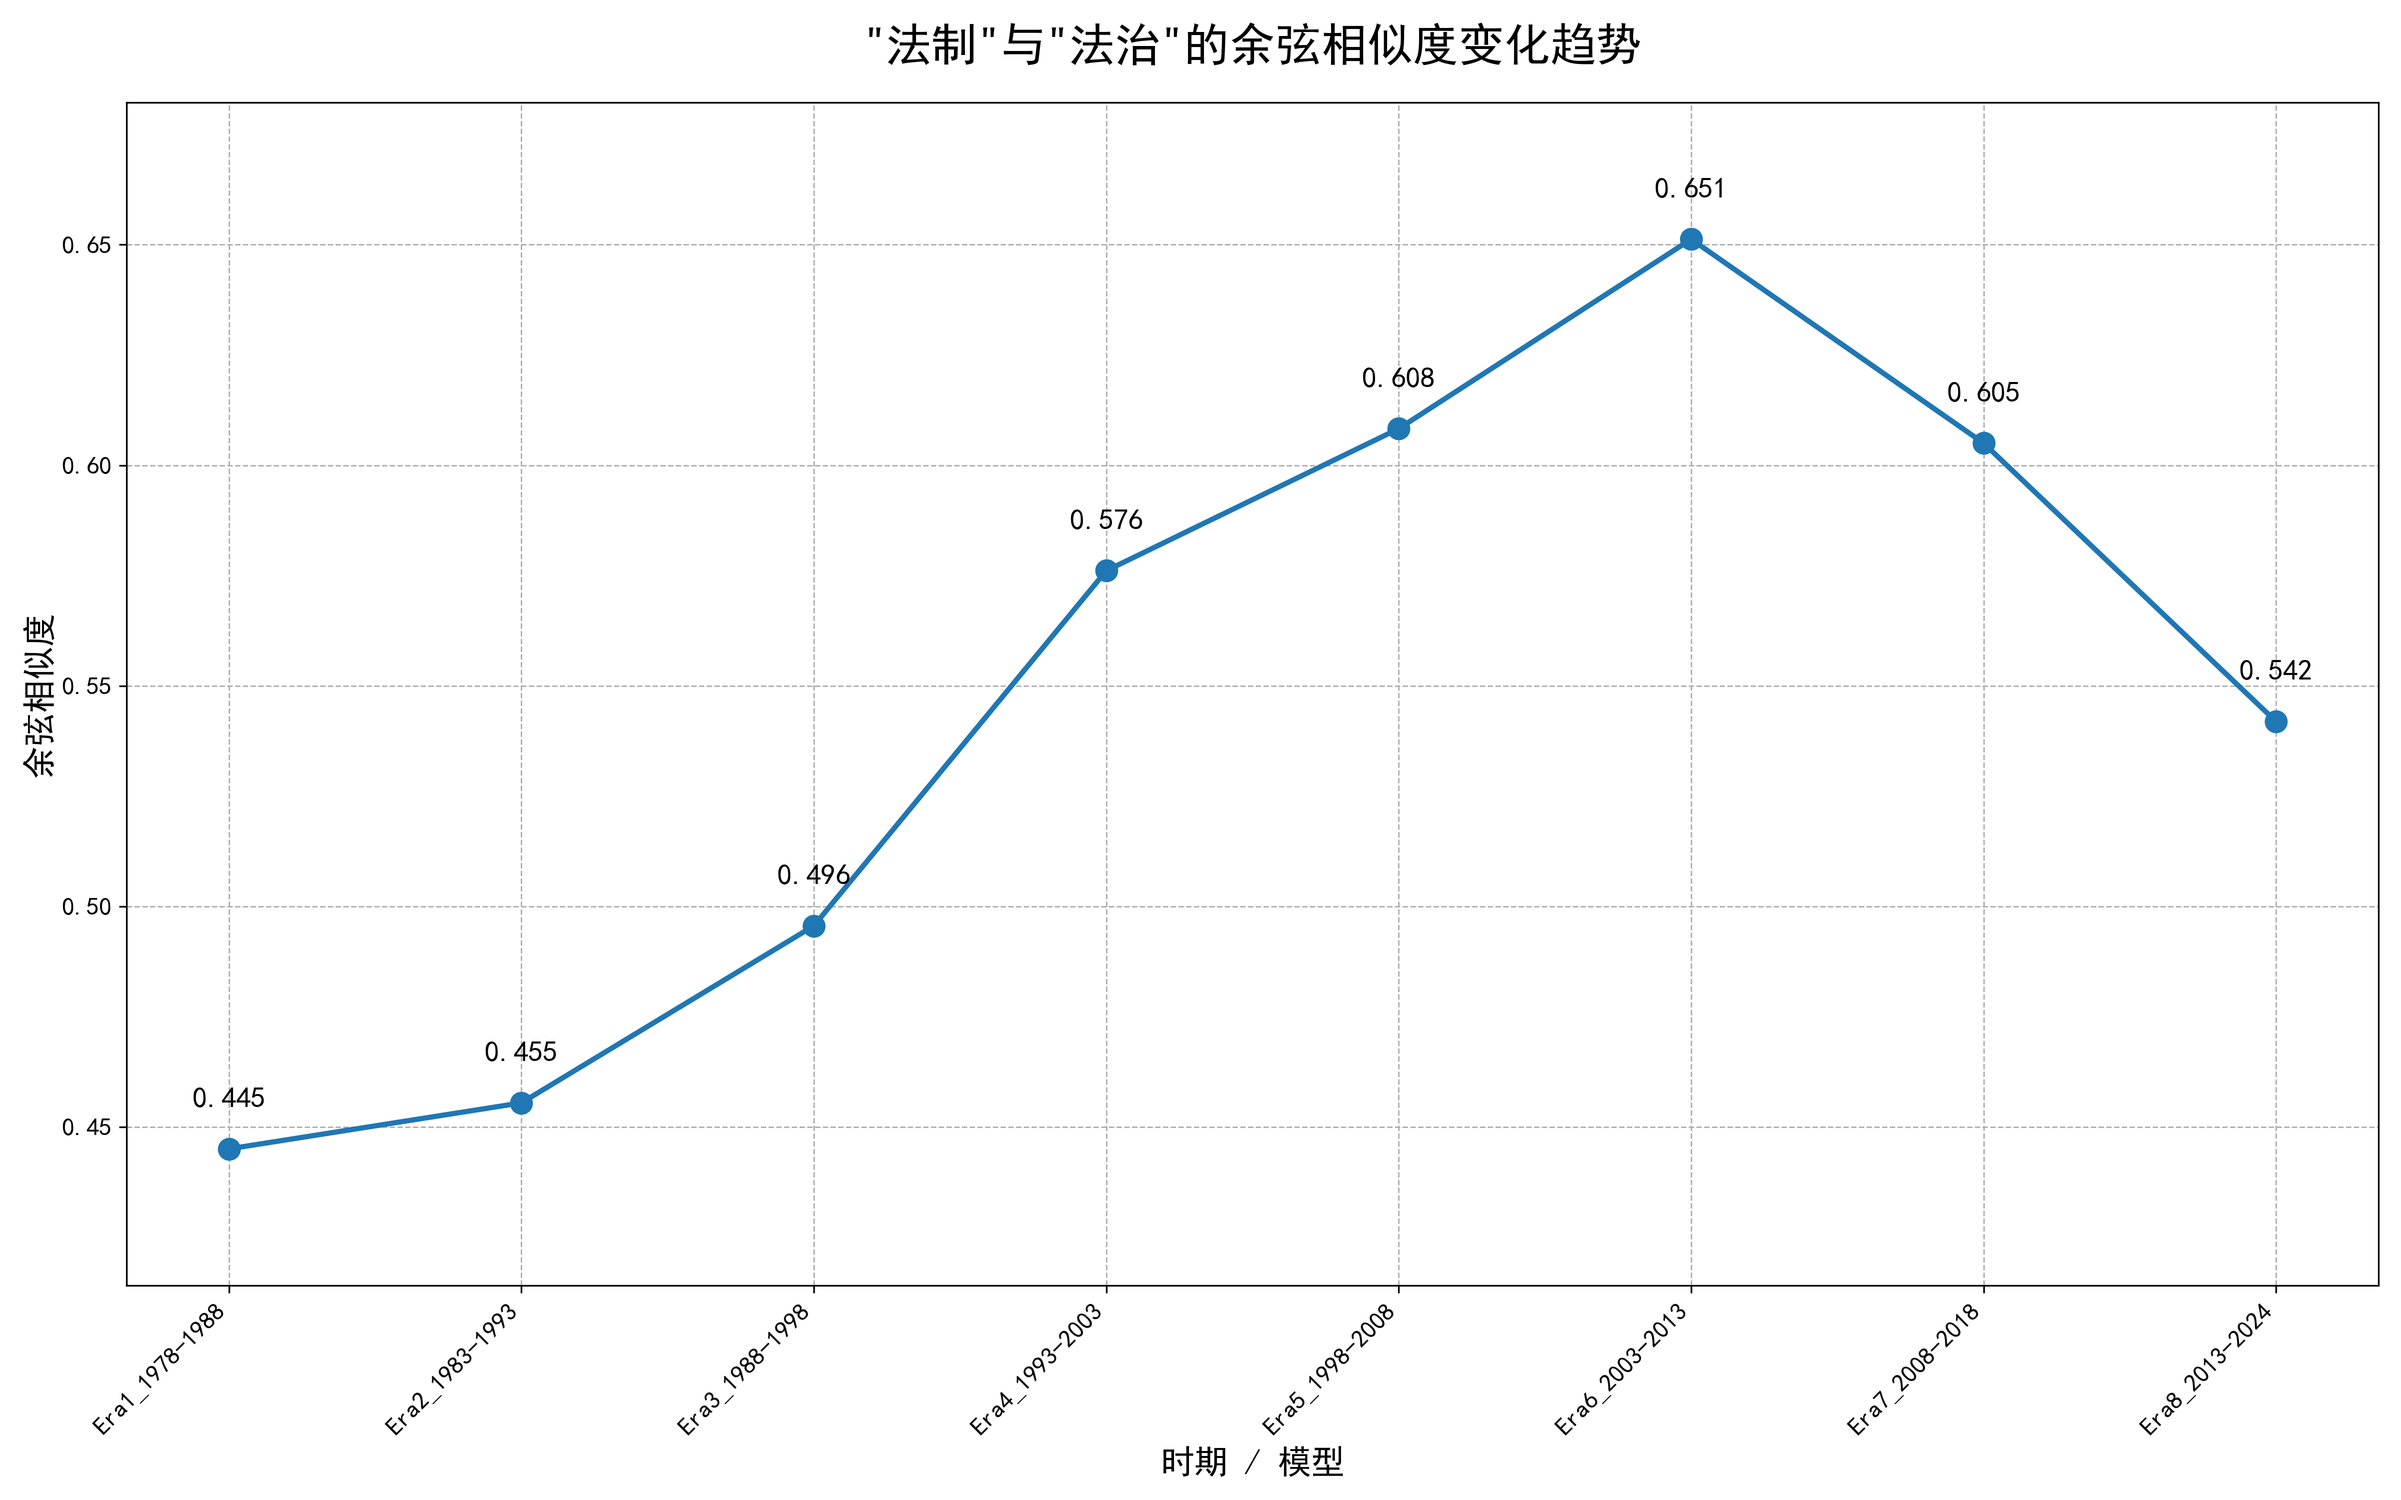
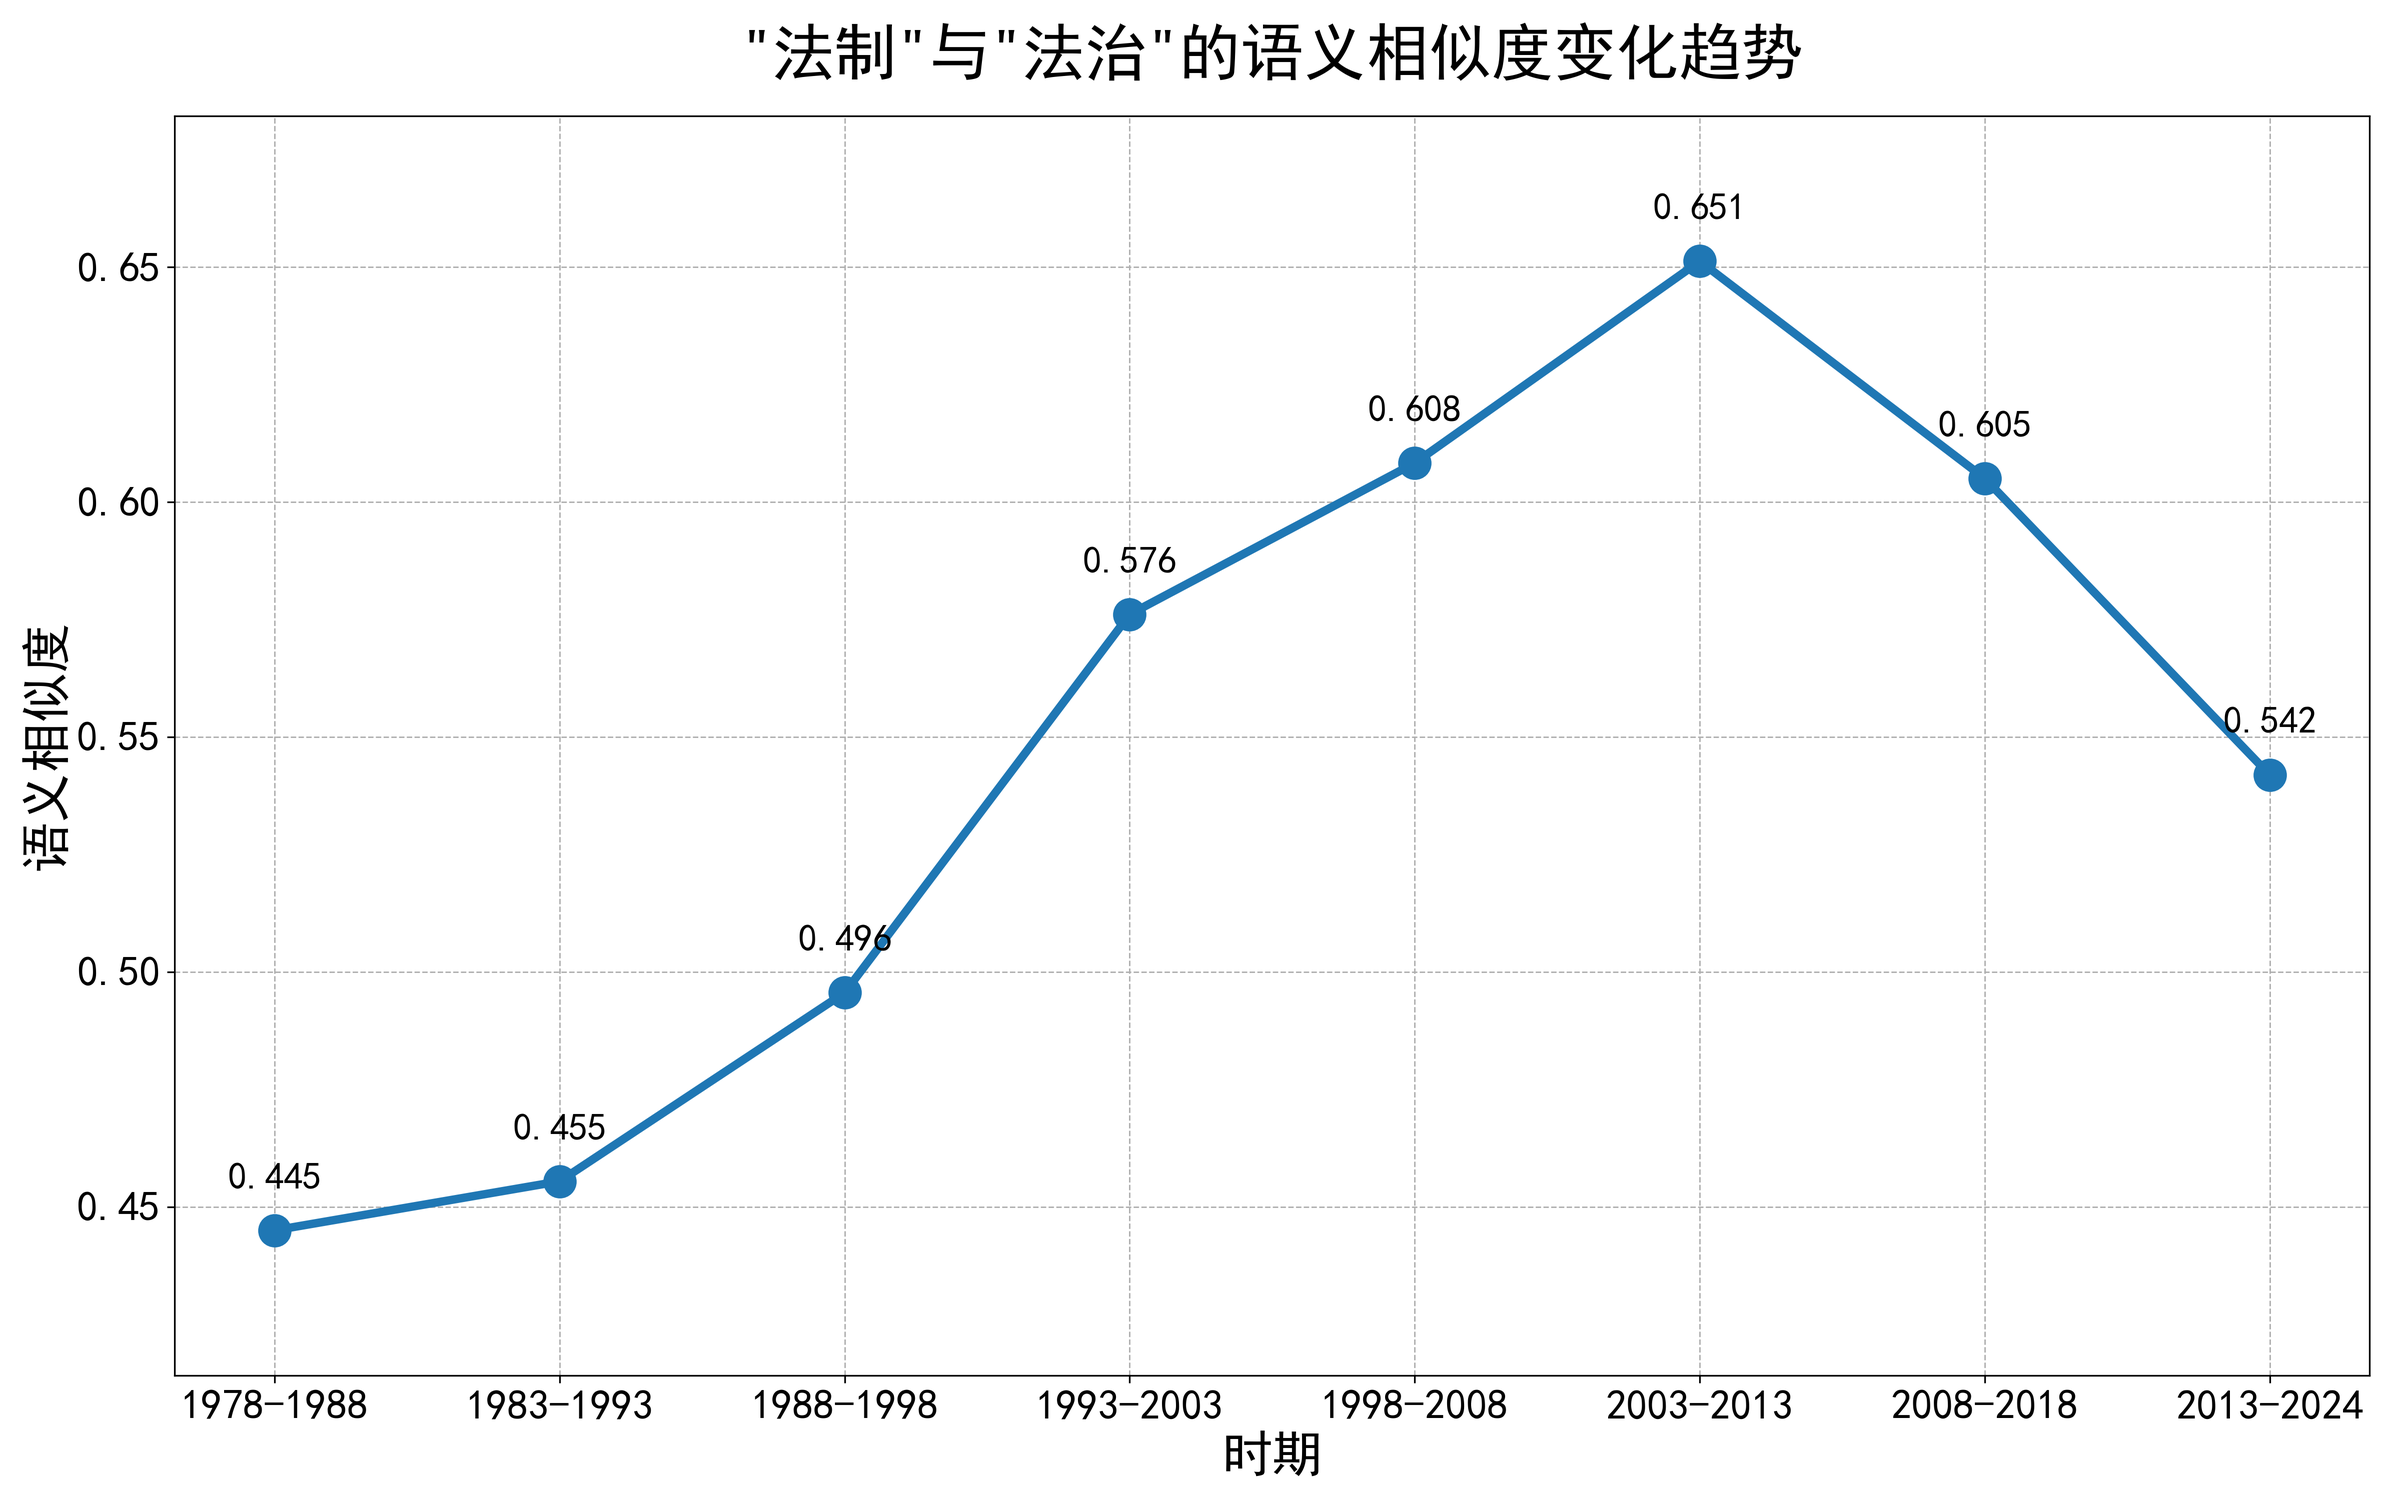
update

diff --git a/src/rule_by-of_law_analysis/rule_by_of_law_freq_replot.py b/src/rule_by-of_law_analysis/rule_by_of_law_freq_replot.py
@@ -114,24 +114,24 @@ def replot_trends_from_csv(csv_file: Path, output_dir: Path, plot_moving_average
         plt.plot(fazhi_ma.index, fazhi_ma, color='#ff7f0e', linestyle='--', linewidth=3, label=f'法治 ({window_length}年滑动平均)')
         
         # 为滑动平均曲线添加数据点
-        for year, val in fazi_ma.items():
-            plt.annotate(f'{val:.1f}', (year, val),
-                       textcoords="offset points", xytext=(0,10), ha='center', fontsize=10, fontweight='bold', color='#1f77b4')
-        for year, val in fazhi_ma.items():
-            plt.annotate(f'{val:.1f}', (year, val),
-                       textcoords="offset points", xytext=(0,10), ha='center', fontsize=10, fontweight='bold', color='#ff7f0e')
+        # for year, val in fazi_ma.items():
+        #     plt.annotate(f'{val:.1f}', (year, val),
+        #                textcoords="offset points", xytext=(0,10), ha='center', fontsize=10, fontweight='bold', color='#1f77b4')
+        # for year, val in fazhi_ma.items():
+        #     plt.annotate(f'{val:.1f}', (year, val),
+        #                textcoords="offset points", xytext=(0,10), ha='center', fontsize=10, fontweight='bold', color='#ff7f0e')
 
 
     # 设置图表属性
-    plt.title('"法制"与"法治"词频年度变化趋势 (每百万词)', fontsize=20, fontweight='bold', pad=20)
+    plt.title('"法制"与"法治"词频年度变化趋势 (每百万词)', fontsize=30, fontweight='bold', pad=20)
     plt.xlabel('年份', fontsize=24)
     plt.ylabel('每百万词出现次数', fontsize=24)
-    plt.legend(fontsize=34, loc='upper left')
+    plt.legend(fontsize=30, loc='upper left')
     plt.grid(True, which='both', linestyle='--', linewidth=1.5)
 
     # 优化坐标轴
-    plt.xticks(years[::2], rotation=45, fontsize=12) # 每隔两年显示
-    plt.yticks(fontsize=12)
+    plt.xticks(years[::2], rotation=45, fontsize=20) # 每隔两年显示
+    plt.yticks(fontsize=20)
     
     # 原始数据的标签只在非滑动平均模式下显示，避免图表过于拥挤
     if not plot_moving_average:

diff --git a/src/topic_word_analysis/domain_analysis.py b/src/topic_word_analysis/domain_analysis.py
@@ -250,12 +250,15 @@ class DomainAnalyzer:
     def plot_trend(self, df, path, title):
         """Generates and saves a trend plot."""
         plt.figure(figsize=(12, 7))
+        custom_xticklabels = ["1978-1996", "1997-2013", "2014-2024"]
         for column in df.columns[1:]:
-            sns.lineplot(data=df, x='era', y=column, marker='o', label=column)
-        plt.title(title)
-        plt.ylabel("Similarity")
-        plt.xlabel("Era")
-        plt.legend(title="Topic")
+            sns.lineplot(data=df, x='era', y=column, marker='o', label=column, linewidth=4, markersize=10)
+        # plt.title(title)
+        plt.ylabel("维度得分（按时期归一化）", fontsize=22)
+        plt.xlabel("时期", fontsize=22)
+        plt.legend(fontsize=20)
+        plt.xticks(ticks=range(len(custom_xticklabels)), labels=custom_xticklabels, fontsize=20)
+        plt.yticks(fontsize=20)
         plt.tight_layout()
         plt.savefig(path / "trend_chart.png", dpi=300)
         plt.close()
@@ -377,9 +380,9 @@ if __name__ == '__main__':
             'era3': '法治'
         }
         print("\n🔄 混合模式: era1-法制, era2-[法制+法治], era3-法治")
-        # analyzer.run_analysis(mixed_keywords, use_general_union=True, normalize='same_era')
+        analyzer.run_analysis(mixed_keywords, use_general_union=True, normalize='same_era')
         # print("\n🔄 混合模式: era1-党政建设, era2-[党政建设+党建政治], era3-党建政治")
-        analyzer.run_analysis(mixed_keywords, use_general_union=True, normalize=None)
+        # analyzer.run_analysis(mixed_keywords, use_general_union=True, normalize=None)
         
         print("\n🎉 法律领域分析完成！")
 

diff --git a/src/topic_word_analysis/inner_value_analysis.py b/src/topic_word_analysis/inner_value_analysis.py
@@ -250,12 +250,15 @@ class DomainAnalyzer:
     def plot_trend(self, df, path, title):
         """Generates and saves a trend plot."""
         plt.figure(figsize=(12, 7))
+        custom_xticklabels = ["1978-1996", "1997-2013", "2014-2024"]
         for column in df.columns[1:]:
-            sns.lineplot(data=df, x='era', y=column, marker='o', label=column)
-        plt.title(title)
-        plt.ylabel("Similarity")
-        plt.xlabel("Era")
-        plt.legend(title="Topic")
+            sns.lineplot(data=df, x='era', y=column, marker='o', label=column, linewidth=4, markersize=10)
+        # plt.title(title)
+        plt.ylabel("维度得分（按时期归一化）", fontsize=22)
+        plt.xlabel("时期", fontsize=22)
+        plt.legend(fontsize=20)
+        plt.xticks(ticks=range(len(custom_xticklabels)), labels=custom_xticklabels, fontsize=20)
+        plt.yticks(fontsize=20)
         plt.tight_layout()
         plt.savefig(path / "trend_chart.png", dpi=300)
         plt.close()
@@ -377,9 +380,9 @@ if __name__ == '__main__':
             'era3': '法治'
         }
         print("\n🔄 混合模式: era1-法制, era2-[法制+法治], era3-法治")
-        # analyzer.run_analysis(mixed_keywords, use_general_union=True, normalize='same_era')
+        analyzer.run_analysis(mixed_keywords, use_general_union=True, normalize='same_era')
         # print("\n🔄 混合模式: era1-党政建设, era2-[党政建设+党建政治], era3-党建政治")
-        analyzer.run_analysis(mixed_keywords, use_general_union=True, normalize=None)
+        # analyzer.run_analysis(mixed_keywords, use_general_union=True, normalize=None)
         
         print("\n🎉 法律领域分析完成！")
 

diff --git a/src/rule_by-of_law_analysis/rule_by_of_law_similarity_analyzer.py b/src/rule_by-of_law_analysis/rule_by_of_law_similarity_analyzer.py
@@ -88,8 +88,10 @@ def plot_similarity_trends(df: pd.DataFrame, word1: str, word2: str, output_dir:
         return
 
     plt.figure(figsize=(16, 10))
+    custom_x = [item.split('_')[1] for item in df['period']]
+    df['period'] = custom_x
     
-    plt.plot(df['period'], df['similarity'], marker='o', linestyle='-', markersize=10, linewidth=2.5)
+    plt.plot(custom_x, df['similarity'], marker='o', linestyle='-', markersize=15, linewidth=4)
     
     # 为每个数据点添加标签
     for i, row in df.iterrows():
@@ -99,14 +101,16 @@ def plot_similarity_trends(df: pd.DataFrame, word1: str, word2: str, output_dir:
                          textcoords="offset points",
                          xytext=(0,20),
                          ha='center',
-                         fontsize=14,
+                         fontsize=18,
                          fontweight='bold')
 
-    plt.title(f'"{word1}"与"{word2}"的余弦相似度变化趋势', fontsize=22, fontweight='bold', pad=20)
-    plt.xlabel('时期 / 模型', fontsize=16)
-    plt.ylabel('余弦相似度', fontsize=16)
-    plt.xticks(rotation=45, ha='right', fontsize=12)
-    plt.yticks(fontsize=12)
+    plt.title(f'"{word1}"与"{word2}"的语义相似度变化趋势', fontsize=30, fontweight='bold', pad=20)
+    plt.xlabel('时期', fontsize=24)
+    plt.ylabel('语义相似度', fontsize=24)
+    # plt.xticks(rotation=0, ha='right', fontsize=20)
+    plt.xticks( fontsize=20)
+
+    plt.yticks(fontsize=20)
     plt.grid(True, which='both', linestyle='--', linewidth=0.7)
     
     # 动态调整Y轴范围

diff --git a/src/topic_word_analysis/combine_domain_analysis.py b/src/topic_word_analysis/combine_domain_analysis.py
@@ -265,10 +265,27 @@ class DomainAnalyzer:
         # 转置数据，使era在x轴，topics在y轴
         df_transposed = df.set_index('era').T
         plt.figure(figsize=(10, 8))
-        sns.heatmap(df_transposed, annot=True, fmt=".3f", cmap="RdBu_r")
-        plt.title(title)
-        plt.xlabel("Era (时期)")
-        plt.ylabel("Topic (维度)")
+        # 如果需要自定义x轴和y轴的ticks名称，可以通过设置xticklabels和yticklabels参数
+        # 例如，假设你想自定义x轴为["时期一", "时期二", "时期三"]，y轴为["维度A", "维度B", "维度C", ...]
+        custom_xticklabels = ["1978-1996", "1997-2013", "2014-2024"]  # 根据实际era数量自定义
+        # custom_yticklabels = [ "司法", "守法","执法","立法"]  # 根据实际topic数量自定义
+
+        ax = sns.heatmap(
+            df_transposed,
+            annot=True,
+            fmt=".3f",
+            # cmap="viridis",
+            xticklabels=custom_xticklabels,
+            # yticklabels=custom_yticklabels,
+            annot_kws={"fontsize": 20},  # 设置热力图数字的字体大小,
+            cmap="RdBu_r"
+        )
+        # 设置x轴和y轴label的字体大小
+        ax.set_xticklabels(ax.get_xticklabels(), fontsize=20)
+        ax.set_yticklabels(ax.get_yticklabels(), fontsize=20)
+        # plt.title(title)
+        plt.xlabel("时期", fontsize=24)
+        # plt.ylabel("类别", fontsize=24)
         plt.tight_layout()
         plt.savefig(path / "heatmap.png", dpi=300)
         plt.close()

diff --git a/src/topic_word_analysis/legal_process_analysis.py b/src/topic_word_analysis/legal_process_analysis.py
@@ -273,10 +273,26 @@ class LegalProcessAnalyzer:
         # 转置数据，使era在x轴，topics在y轴
         df_transposed = df.set_index('era').T
         plt.figure(figsize=(10, 8))
-        sns.heatmap(df_transposed, annot=True, fmt=".3f", cmap="viridis")
-        plt.title(title)
-        plt.xlabel("Era (时期)")
-        plt.ylabel("Topic (维度)")
+        # 如果需要自定义x轴和y轴的ticks名称，可以通过设置xticklabels和yticklabels参数
+        # 例如，假设你想自定义x轴为["时期一", "时期二", "时期三"]，y轴为["维度A", "维度B", "维度C", ...]
+        custom_xticklabels = ["1978-1996", "1997-2013", "2014-2024"]  # 根据实际era数量自定义
+        custom_yticklabels = [ "司法", "守法","执法","立法"]  # 根据实际topic数量自定义
+
+        ax = sns.heatmap(
+            df_transposed,
+            annot=True,
+            fmt=".3f",
+            cmap="viridis",
+            xticklabels=custom_xticklabels,
+            yticklabels=custom_yticklabels,
+            annot_kws={"fontsize": 20}  # 设置热力图数字的字体大小
+        )
+        # 设置x轴和y轴label的字体大小
+        ax.set_xticklabels(ax.get_xticklabels(), fontsize=20)
+        ax.set_yticklabels(ax.get_yticklabels(), fontsize=25)
+        # plt.title(title)
+        plt.xlabel("时期", fontsize=24)
+        plt.ylabel("类别", fontsize=24)
         plt.tight_layout()
         plt.savefig(path / "heatmap.png", dpi=300)
         plt.close()
